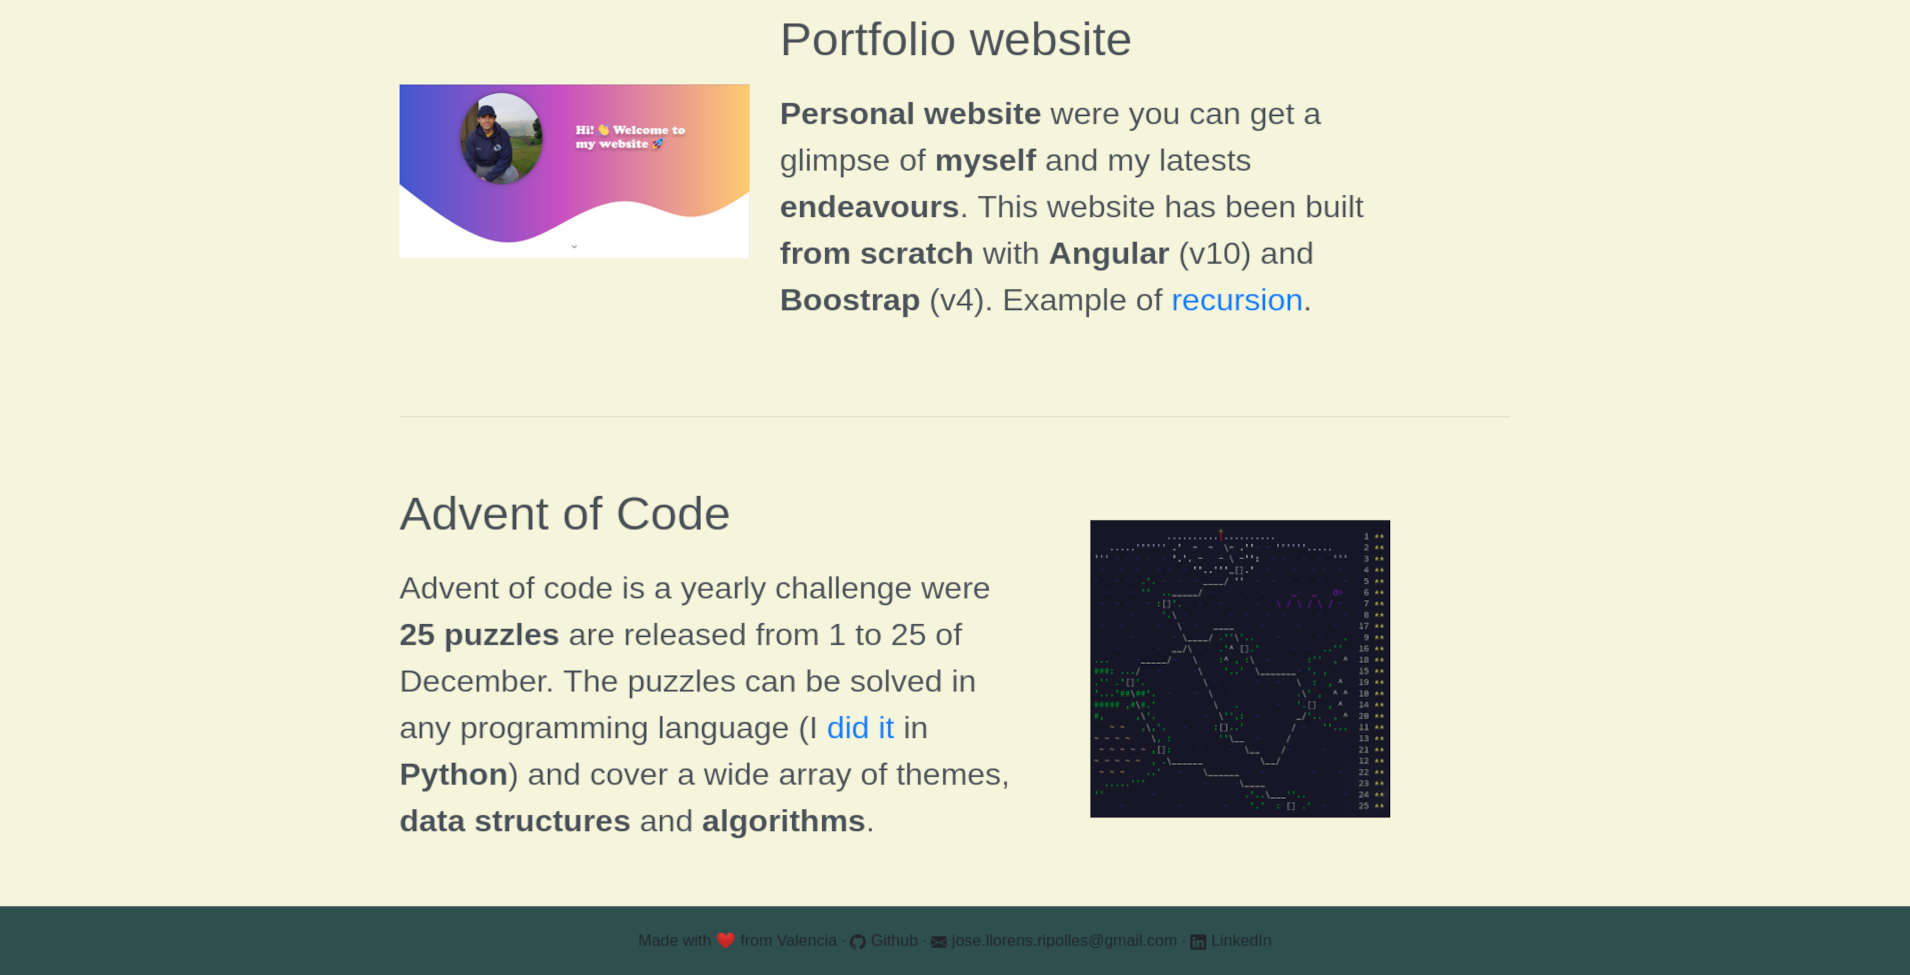
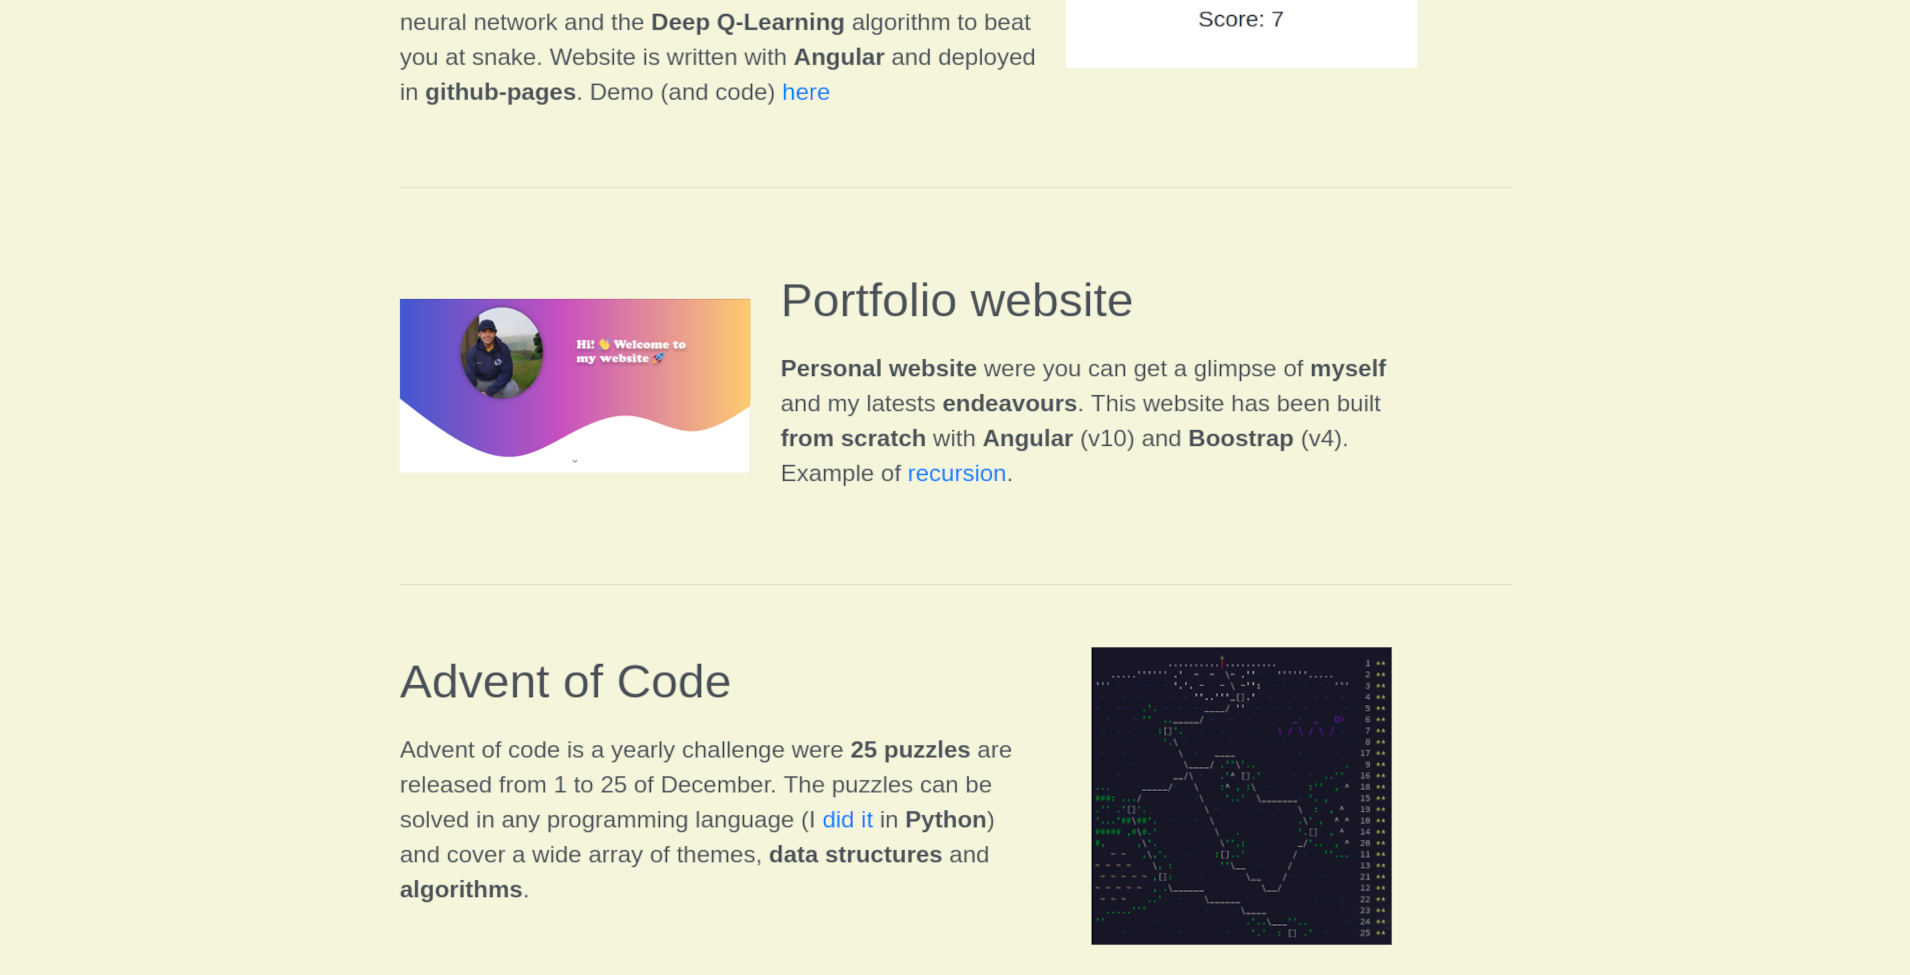
Minor improvements

diff --git a/src/app/components/contact/contact.component.html b/src/app/components/contact/contact.component.html
@@ -2,21 +2,23 @@
     <div class="container p-4">
         <div class="row">
             <div class="col text-center">
-                <p class="m-0">Made with &#10084;&#65039; from Valencia · <svg xmlns="http://www.w3.org/2000/svg"
-                        width="16" height="16" fill="currentColor" class="bi bi-github">
-                        <path
-                            d="M8 0C3.58 0 0 3.58 0 8c0 3.54 2.29 6.53 5.47 7.59.4.07.55-.17.55-.38 0-.19-.01-.82-.01-1.49-2.01.37-2.53-.49-2.69-.94-.09-.23-.48-.94-.82-1.13-.28-.15-.68-.52-.01-.53.63-.01 1.08.58 1.23.82.72 1.21 1.87.87 2.33.66.07-.52.28-.87.51-1.07-1.78-.2-3.64-.89-3.64-3.95 0-.87.31-1.59.82-2.15-.08-.2-.36-1.02.08-2.12 0 0 .67-.21 2.2.82.64-.18 1.32-.27 2-.27.68 0 1.36.09 2 .27 1.53-1.04 2.2-.82 2.2-.82.44 1.1.16 1.92.08 2.12.51.56.82 1.27.82 2.15 0 3.07-1.87 3.75-3.65 3.95.29.25.54.73.54 1.48 0 1.07-.01 1.93-.01 2.2 0 .21.15.46.55.38A8.012 8.012 0 0 0 16 8c0-4.42-3.58-8-8-8z" />
-                    </svg> <a href="https://github.com/JoseLlorensRipolles"> Github</a> · <svg
-                        xmlns="http://www.w3.org/2000/svg" width="16" height="16" fill="currentColor"
-                        class="bi bi-envelope-fill" viewBox="0 0 16 16">
-                        <path
-                            d="M.05 3.555A2 2 0 0 1 2 2h12a2 2 0 0 1 1.95 1.555L8 8.414.05 3.555zM0 4.697v7.104l5.803-3.558L0 4.697zM6.761 8.83l-6.57 4.027A2 2 0 0 0 2 14h12a2 2 0 0 0 1.808-1.144l-6.57-4.027L8 9.586l-1.239-.757zm3.436-.586L16 11.801V4.697l-5.803 3.546z" />
-                    </svg> <a href="mailto:jose.llorens.ripolles@gmail.com"> jose.llorens.ripolles@gmail.com </a> · <svg
-                        xmlns="http://www.w3.org/2000/svg" width="16" height="16" fill="currentColor"
-                        class="bi bi-linkedin" viewBox="0 0 16 16">
-                        <path
-                            d="M0 1.146C0 .513.526 0 1.175 0h13.65C15.474 0 16 .513 16 1.146v13.708c0 .633-.526 1.146-1.175 1.146H1.175C.526 16 0 15.487 0 14.854V1.146zm4.943 12.248V6.169H2.542v7.225h2.401zm-1.2-8.212c.837 0 1.358-.554 1.358-1.248-.015-.709-.52-1.248-1.342-1.248-.822 0-1.359.54-1.359 1.248 0 .694.521 1.248 1.327 1.248h.016zm4.908 8.212V9.359c0-.216.016-.432.08-.586.173-.431.568-.878 1.232-.878.869 0 1.216.662 1.216 1.634v3.865h2.401V9.25c0-2.22-1.184-3.252-2.764-3.252-1.274 0-1.845.7-2.165 1.193v.025h-.016a5.54 5.54 0 0 1 .016-.025V6.169h-2.4c.03.678 0 7.225 0 7.225h2.4z" />
-                    </svg> <a href="https://www.linkedin.com/in/jose-manuel-llorens-ripolles-902103137"> LinkedIn</a>
+                <p class="m-0">Made with &#10084;&#65039; from Valencia
+                    · <a href="https://github.com/JoseLlorensRipolles"> <svg xmlns="http://www.w3.org/2000/svg"
+                            width="16" height="16" fill="currentColor" class="bi bi-github">
+                            <path
+                                d="M8 0C3.58 0 0 3.58 0 8c0 3.54 2.29 6.53 5.47 7.59.4.07.55-.17.55-.38 0-.19-.01-.82-.01-1.49-2.01.37-2.53-.49-2.69-.94-.09-.23-.48-.94-.82-1.13-.28-.15-.68-.52-.01-.53.63-.01 1.08.58 1.23.82.72 1.21 1.87.87 2.33.66.07-.52.28-.87.51-1.07-1.78-.2-3.64-.89-3.64-3.95 0-.87.31-1.59.82-2.15-.08-.2-.36-1.02.08-2.12 0 0 .67-.21 2.2.82.64-.18 1.32-.27 2-.27.68 0 1.36.09 2 .27 1.53-1.04 2.2-.82 2.2-.82.44 1.1.16 1.92.08 2.12.51.56.82 1.27.82 2.15 0 3.07-1.87 3.75-3.65 3.95.29.25.54.73.54 1.48 0 1.07-.01 1.93-.01 2.2 0 .21.15.46.55.38A8.012 8.012 0 0 0 16 8c0-4.42-3.58-8-8-8z" />
+                        </svg> Github</a>
+                    · <a href="mailto:jose.llorens.ripolles@gmail.com"><svg xmlns="http://www.w3.org/2000/svg"
+                            width="16" height="16" fill="currentColor" class="bi bi-envelope-fill" viewBox="0 0 16 16">
+                            <path
+                                d="M.05 3.555A2 2 0 0 1 2 2h12a2 2 0 0 1 1.95 1.555L8 8.414.05 3.555zM0 4.697v7.104l5.803-3.558L0 4.697zM6.761 8.83l-6.57 4.027A2 2 0 0 0 2 14h12a2 2 0 0 0 1.808-1.144l-6.57-4.027L8 9.586l-1.239-.757zm3.436-.586L16 11.801V4.697l-5.803 3.546z" />
+                        </svg> jose.llorens.ripolles@gmail.com </a>
+                    · <a href="https://www.linkedin.com/in/jose-manuel-llorens-ripolles-902103137"> <svg
+                            xmlns="http://www.w3.org/2000/svg" width="16" height="16" fill="currentColor"
+                            class="bi bi-linkedin" viewBox="0 0 16 16">
+                            <path
+                                d="M0 1.146C0 .513.526 0 1.175 0h13.65C15.474 0 16 .513 16 1.146v13.708c0 .633-.526 1.146-1.175 1.146H1.175C.526 16 0 15.487 0 14.854V1.146zm4.943 12.248V6.169H2.542v7.225h2.401zm-1.2-8.212c.837 0 1.358-.554 1.358-1.248-.015-.709-.52-1.248-1.342-1.248-.822 0-1.359.54-1.359 1.248 0 .694.521 1.248 1.327 1.248h.016zm4.908 8.212V9.359c0-.216.016-.432.08-.586.173-.431.568-.878 1.232-.878.869 0 1.216.662 1.216 1.634v3.865h2.401V9.25c0-2.22-1.184-3.252-2.764-3.252-1.274 0-1.845.7-2.165 1.193v.025h-.016a5.54 5.54 0 0 1 .016-.025V6.169h-2.4c.03.678 0 7.225 0 7.225h2.4z" />
+                        </svg> LinkedIn</a>
                 </p>
             </div>
         </div>

diff --git a/src/app/components/projects/projects.component.html b/src/app/components/projects/projects.component.html
@@ -3,7 +3,7 @@
         <div class="text-center">
             <h1 class="header-text">Some of my latests projects</h1>
         </div>
-        <div class="row py-5">
+        <div class="row py-3 py-md-5">
             <div class="col-12 col-md-7">
 
                 <p class="project-header">Snake-AI </p>
@@ -23,7 +23,7 @@
 
         <hr />
 
-        <div class="row py-5">
+        <div class="row py-3 py-md-5">
             <div class="col-12 col-md-4 center-children">
                 <ngb-carousel *ngIf="images" [showNavigationArrows]="showNavigationArrows"
                     [showNavigationIndicators]="showNavigationIndicators">
@@ -52,7 +52,7 @@
 
         <hr />
 
-        <div class="row py-5">
+        <div class="row py-3 py-md-5">
             <div class="col-12 col-md-7">
                 <p class="project-header">Advent of Code</p>
                 <a class="h2" href="{{currentUrl}}"></a>

diff --git a/src/app/components/who-am-i/who-am-i.component.scss b/src/app/components/who-am-i/who-am-i.component.scss
@@ -1,6 +1,6 @@
 .bullet-list-text{
     color: #495057;
-    font-size: calc(1rem);
+    font-size: 1rem;
     font-weight: 400;
     font-style: normal;
 }
